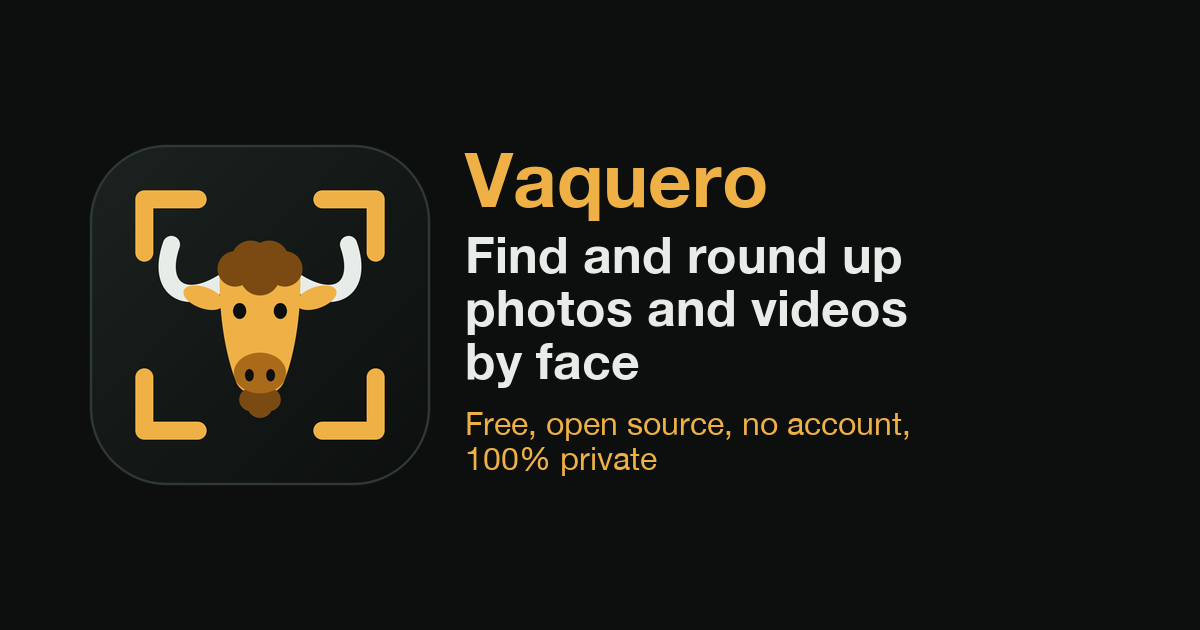
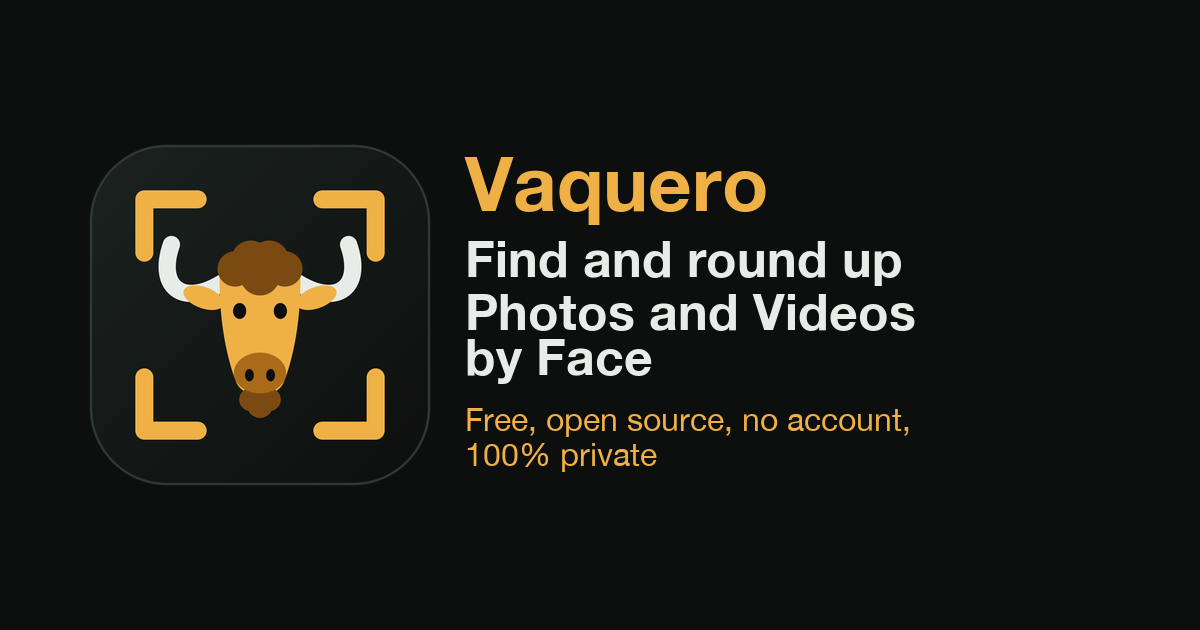
docs(site): slogan reads Find and round up Photos and Videos by Face

Changed region(s): [[0.37, 0.3619, 0.7708, 0.754], [0.37, 0.2413, 0.6475, 0.3619]]

diff --git a/scripts/make_web_icons.py b/scripts/make_web_icons.py
@@ -19,7 +19,7 @@ BG = (12, 15, 14)  # the app's background, #0c0f0e
 FG = (231, 236, 232)  # the app's text, #e7ece8
 AMBER = (239, 177, 70)
 FONT = "/System/Library/Fonts/HelveticaNeue.ttc"
-HEADLINE = ("Find and round up", "photos and videos", "by face")
+HEADLINE = ("Find and round up", "Photos and Videos", "by Face")
 TAGLINE = ("Free, open source, no account,", "100% private")
 
 

diff --git a/README.md b/README.md
@@ -20,7 +20,7 @@
 </p>
 
 <p align="center">
-  <strong>Find and round up photos and videos by face.</strong><br><br>
+  <strong>Find and round up Photos and Videos by Face.</strong><br><br>
   Vaquero learns a face from a few photos, then finds every photo & video it appears in <br> and organizes them your way. Runs entirely offline. No photo or face ever leaves your Mac.<br>
   Free, open source, no account, 100% private
 </p>
